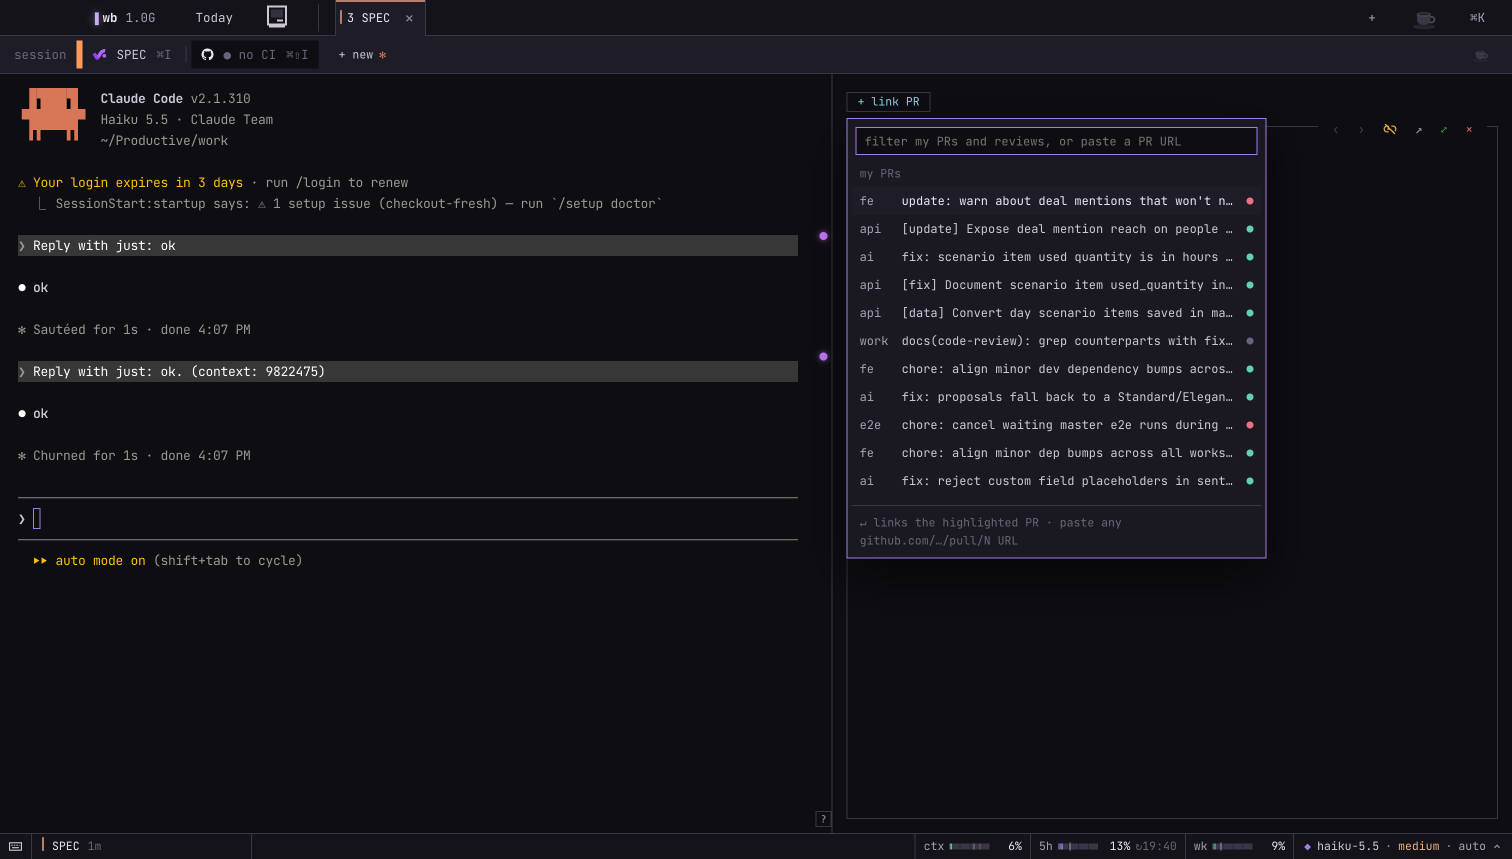
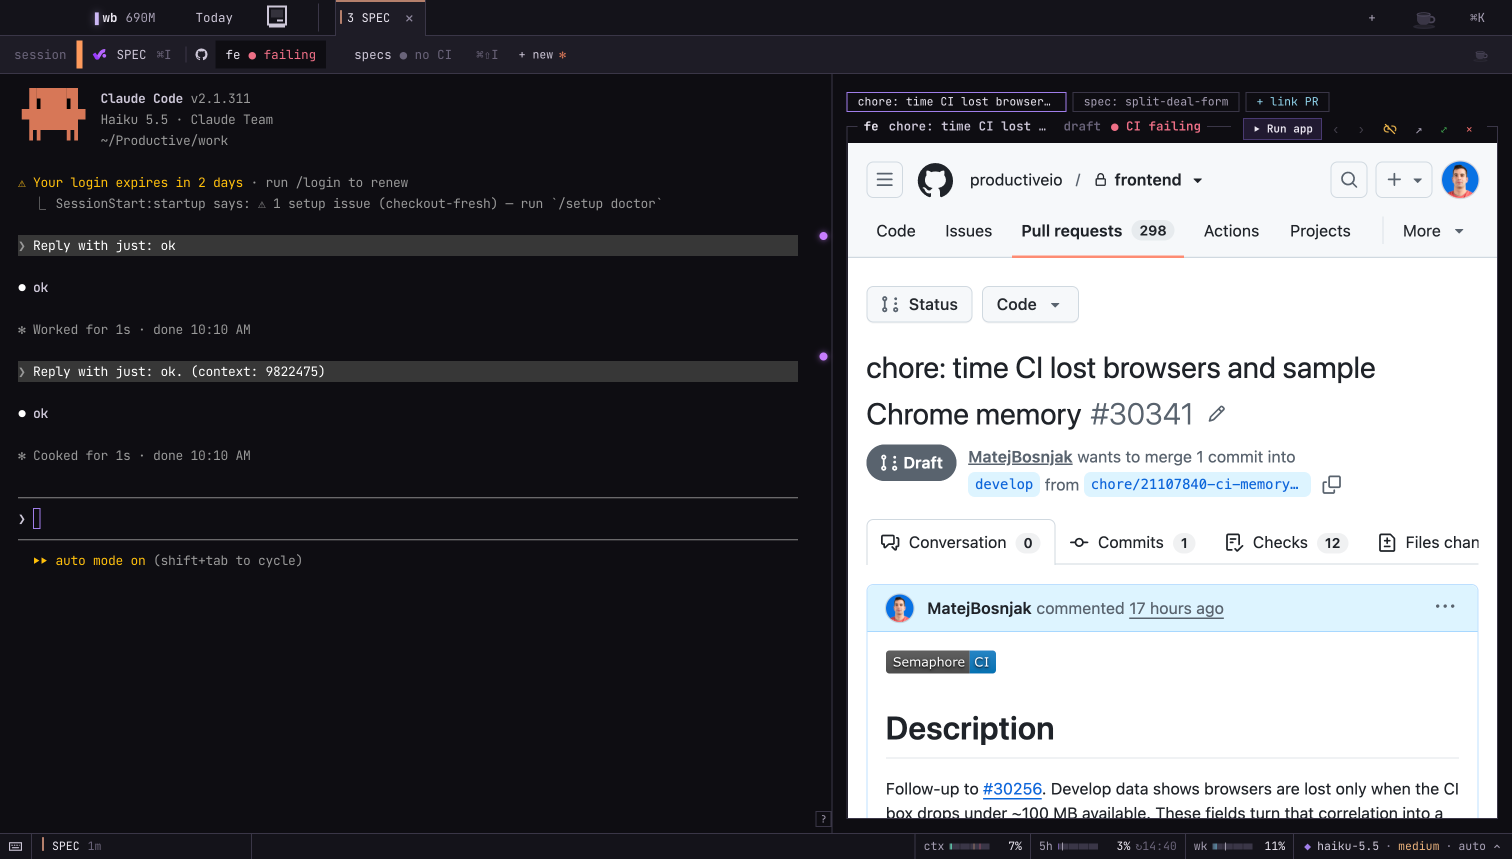
Session bar: every PR gets a segment, repo and CI in words, worst first (+N past 3); a segment opens the PR sidebar on that PR

diff --git a/src/renderer/src/components/TaskSide.tsx b/src/renderer/src/components/TaskSide.tsx
@@ -20,23 +20,39 @@ export const sessionTasks = (snapshot: TasksSnapshot | null, sessionId: string):
 export { sessionPrs, type SessionPr } from '@shared/links'
 
 const CI_LABEL: Record<Ci, [string, string]> = {
-  pass: ['CI passing', 'var(--ok)'],
-  fail: ['CI failing', 'var(--bad)'],
-  pending: ['CI running', 'var(--info)'],
+  pass: ['passing', 'var(--ok)'],
+  fail: ['failing', 'var(--bad)'],
+  pending: ['running', 'var(--info)'],
   none: ['no CI', 'var(--faint)'],
 }
+// The session bar lists PRs worst CI first, so trouble is never behind +N.
+const CI_RANK: Record<Ci, number> = { fail: 0, pending: 1, none: 2, pass: 3 }
+const SHOWN_PRS = 3
+// The PR a session bar segment asked for: a new GitHub view has no URL yet when the sidebar mounts.
+let wantedPr: string | null = null
+const prNumber = (url: string) => /\/pull\/(\d+)/.exec(url)?.[1] ?? ''
 
 /**
  * The session bar under the taskbar, belonging to the open session: its task (status rail, title, status) and its
  * PR (CI state), each opening its sidebar, and the branch at the right.
  */
 export function SessionBar({ session }: { session: Session }) {
-  const { tasks, git, runpr, side, toggle } = useStore(useShallow((s) => ({ tasks: s.tasks, git: s.git, runpr: s.runpr, side: s.sessionSides[session.id] ?? null, toggle: s.toggleSessionSide })))
+  const { tasks, git, runpr, side, toggle, setSessionSide } = useStore(useShallow((s) => ({ tasks: s.tasks, git: s.git, runpr: s.runpr, side: s.sessionSides[session.id] ?? null, toggle: s.toggleSessionSide, setSessionSide: s.setSessionSide })))
   const taskId = sessionTasks(tasks, session.id)[0]
   const task = taskId ? tasks?.tasks.find((t) => t.id === taskId) : undefined
   const prs = sessionPrs(session.id, tasks, git, runpr)
-  const pr = prs[0]
-  const ci = pr?.ci ? CI_LABEL[pr.ci] : null
+  const ranked = [...prs].sort((a, b) => (a.ci ? CI_RANK[a.ci] : 2.5) - (b.ci ? CI_RANK[b.ci] : 2.5))
+  const shown = prs.length > SHOWN_PRS ? ranked.slice(0, SHOWN_PRS) : ranked
+  const hidden = ranked.slice(shown.length)
+  const paneUrl = useStore((s) => s.pane?.prUrl)
+  const prOpen = (url: string) => side === 'pr' && paneUrl === url
+  // A PR's segment opens the sidebar on it, or closes the sidebar when it's the one shown.
+  const openPr = async (url: string) => {
+    if (prOpen(url)) return setSessionSide(null)
+    wantedPr = url
+    await window.workbench.pane.open(url)
+    setSessionSide('pr')
+  }
   return (
     <div className="session-bar">
       <span className="faint">session</span>
@@ -58,15 +74,39 @@ export function SessionBar({ session }: { session: Session }) {
         )}
         <span className="faint">⌘I</span>
       </button>
-      {pr && (
-        <button className={`sbar-btn pad${side === 'pr' ? ' on' : ''}`} aria-pressed={side === 'pr'} title={`${pr.title} (⌘⇧I)`} onClick={() => toggle('pr')}>
-          <GitHubIcon />
-          {ci && <span style={{ color: ci[1] }}>● {ci[0]}</span>}
-          {prs.length > 1 && <span className="faint">+{prs.length - 1}</span>}
+      {shown.length > 0 && (
+        <>
+          <span className="sbar-gh">
+            <GitHubIcon />
+          </span>
+          {shown.map((p) => {
+            const ci = p.ci ? CI_LABEL[p.ci] : null
+            return (
+              <button
+                key={p.url}
+                className={`sbar-btn seg${prOpen(p.url) ? ' on' : ''}`}
+                aria-pressed={prOpen(p.url)}
+                title={`${p.title} · ${p.label} #${prNumber(p.url)}${ci ? ` · CI ${ci[0]}` : ''}`}
+                onClick={() => void openPr(p.url)}
+              >
+                <span>{p.label}</span>
+                {ci && <span style={{ color: ci[1] }}>● {ci[0]}</span>}
+              </button>
+            )
+          })}
+          {hidden.length > 0 && (
+            <button
+              className={`sbar-btn seg${hidden.some((p) => prOpen(p.url)) ? ' on' : ''}`}
+              title={hidden.map((p) => p.title).join('\n')}
+              onClick={() => void openPr(hidden.find((p) => prOpen(p.url))?.url ?? hidden[0]!.url)}
+            >
+              <span className="faint">+{hidden.length}</span>
+            </button>
+          )}
           <span className="faint">⌘⇧I</span>
-        </button>
+        </>
       )}
-      {!pr && (
+      {!prs.length && (
         <LinkPrButton sessionId={session.id} className="sbar-btn pad">
           <GitHubIcon />
           <span className="muted">link PR…</span>
@@ -84,10 +124,11 @@ export function PrSide({ session }: { session: Session }) {
   const { tasks, git, runpr, pane, setSessionSide } = useStore(useShallow((s) => ({ tasks: s.tasks, git: s.git, runpr: s.runpr, pane: s.pane, setSessionSide: s.setSessionSide })))
   const prs = sessionPrs(session.id, tasks, git, runpr)
   const current = prs.find((p) => pane?.prUrl === p.url)
-  const first = prs[0]?.url
-  // Show one of this session's PRs; a page the pane already has for one of them stays as it is.
+  const first = prs.find((p) => p.url === wantedPr)?.url ?? prs[0]?.url
+  // Show one of this session's PRs (the one a segment asked for, else the first); a page the pane already has for one of them stays as it is.
   useEffect(() => {
-    if (first && !current) void window.workbench.pane.open(first)
+    if (current) wantedPr = null
+    else if (first) void window.workbench.pane.open(first)
   }, [session.id, first, !!current])
 
   return (

diff --git a/src/renderer/src/styles.css b/src/renderer/src/styles.css
@@ -1010,6 +1010,11 @@ button.run-chip { cursor: pointer; font: inherit; font-size: 12px; }
 .sbar-btn.pad, .sbar-btn:not(:has(.sbar-rail)) { padding-left: 10px; }
 .sbar-btn:hover, .session-bar .new-sess:hover { background: color-mix(in srgb, var(--text) 6%, transparent); }
 .sbar-btn.on { background: var(--bg); color: var(--text); }
+/* PRs: the GitHub mark once, then a segment per PR with no hairlines between them. */
+.sbar-gh { position: relative; display: flex; align-items: center; height: 28px; padding-left: 4px; margin-right: -6px; color: var(--text-2); }
+.sbar-gh::before { content: ''; position: absolute; left: -6px; top: 6px; bottom: 6px; width: 1px; background: var(--line-heavy); }
+.sbar-btn.seg { gap: 8px; padding: 0 10px; }
+.sbar-btn.seg + .sbar-btn.seg::before { content: none; }
 .sbar-rail { width: 6px; align-self: stretch; background: var(--st); flex-shrink: 0; }
 .sbar-title { min-width: 0; max-width: 380px; overflow: hidden; text-overflow: ellipsis; }
 .sbar-cup-wrap { position: relative; margin-left: auto; }

diff --git a/docs/SPEC.md b/docs/SPEC.md
@@ -91,6 +91,7 @@ Image: every screenshot below; the other themes in `theme-muthur.png`, `theme-br
 - Status-bar meters are compact: label, a short bar, the value in a fixed 4ch so nothing moves.
 - Buttons in one bar share its height (the session bar's are all 28px, `+ new ✻` included).
 - Bars don't box their buttons: the top bar and session bar buttons are text on the bar, raised on hover; boxes are kept for content (lists, sidebars, cards). A session-bar button's state is a left mark (6px for the task status, which shows no status name), never a dot.
+- A bar item with several things splits into segments, one per thing (the session bar's PRs): the icon once in front, no hairlines between segments, each raised on hover and lit on its own.
 - A filter row above a long scrolling list stays pinned at its top (the workstream's Show row). A resizable sidebar shows its edge as a 2px line on hover or while dragging.
 - Badges on a place button: a 15px round red ! at its top-right corner with a chrome ring; its hover card is a popover box under it. The aws chip takes the infra chip shape: ok dot green, expired tinted bad, logging in tinted accent with a pulsing dot.
 - Status in pane headers: a crashed service's pane header says `· crashed · exit n` in the bad colour. Switcher sections (Worktrees, Branches) use small uppercase headers; a branch row is shorter than a worktree row and badged `local` (raised) or `remote` (info).
@@ -255,7 +256,7 @@ Image: `docs/design/current/session.png`. Code: `Terminal.tsx`, `TermView.tsx`, 
 - **Terminal:** xterm.js with WebGL, 10,000 lines of scrollback, in the theme's colours and face (a theme switch restyles open terminals and refits them); main keeps replay history so a reopened view redraws (a pty's owner may rewrite output before it's kept, as Local strips its service shell's markers). Shift+⏎ sends a newline to claude; ⌘C copies a selection. Files dropped on a terminal are typed as their paths, shell-escaped and space-separated, as a paste (claude turns an image path into `[Image #n]`); a drop anywhere else in the window is ignored. URLs are links: productiveio PR links open the GitHub pane (⌘-click the browser) and show a hover card with repo, title, state, review decision, checks and ▶ Run app (open frontend PRs); other URLs open the browser.
 - **Session bar** (38px, raised, under the TopBar, only for Workbench sessions):
   - **Task button:** a 6px status rail (the status shows only as its colour; the name is in the tooltip), Productive logo, title, `⌘I` → task sidebar. No task: "link task…".
-  - **PR button:** GitHub logo, CI state, `+N`, `⌘⇧I` → PR sidebar (no title; it's in the tooltip and the sidebar); hidden with no PR. The session's PRs, in order: connected by hand, the frontend PR its branch is on, PRs of its tasks.
+  - **PRs:** the GitHub logo once, then a segment per PR: repo and CI in words (`fe ● failing`, `api ● passing`), worst first (failing, running, no CI, passing); title, number and CI in the tooltip. A segment opens the PR sidebar on that PR, lit while it's the one shown; clicking it again closes the sidebar. Over 3 PRs, the rest go behind `+N` (opens the first of them; titles in its tooltip). Then `⌘⇧I`, which toggles the sidebar. With no PR, **link PR…**. The session's PRs, in order: connected by hand, the frontend PR its branch is on, PRs of its tasks.
   - `+ new ✻` for the same task; at the right a small cup: this session's caffeinate hold (grey when none, coffee for Awake, the laptop badge for Lid closed). It opens a small popover for this session only: Off / Awake / Lid closed (`o` / `a` / `l`) and until; "Held by Auto while it works" when Auto holds it. Esc closes. The buttons have no boxes, a hairline between them; the open sidebar's button sits on the terminal's colour.
 - **External sessions** (started in another terminal, reported through the same hooks) are read-only tabs showing state and cwd, with **Take over**: waits for the terminal copy to exit, then resumes it here.
 
@@ -279,7 +280,7 @@ Image: `docs/design/current/session-task-side.png`. Code: `TaskSide.tsx` (TaskSi
 
 Image: `docs/design/current/session-pr-side.png`. Code: `TaskSide.tsx` (PrSide), `GitPane.tsx`.
 
-- 45% wide by default: the GitHub pane on the session's PR, with chips to pick between several, and a **+ link PR** chip at the end of the row. It opens a picker: filter my PRs and review requests (PRs already on the session are dimmed, marked linked), or paste any GitHub PR URL (`/files` and queries are stripped); ↑↓ ↵ esc. The pick is stored in `session_prs`. A session with no PR shows **link PR…** in the session bar, which opens the same picker. In the header's tools, the yellow unlink icon (after ‹ ›; the same icon as the task sidebar's) takes the shown PR off this session for good, however it got there (by hand, Run app, a linked task): it's kept as a dismissal (`suggest_dismissed`, key `pr:<url>`), so it isn't suggested again either; connecting it by hand later clears that. With no PR left the sidebar closes. Framed like the task sidebar: a box with the PR's repo, title, state and CI set into its top border and the tools (‹ › history, unlink, browser ⤢ ×, ▶ Run app for frontend) at its right; no Task ▾ / Session ▾ links, since the session bar already shows both. × closes the sidebar.
+- 45% wide by default: the GitHub pane on the session's PR (the one picked in the session bar, else the first), with chips to pick between several, and a **+ link PR** chip at the end of the row. It opens a picker: filter my PRs and review requests (PRs already on the session are dimmed, marked linked), or paste any GitHub PR URL (`/files` and queries are stripped); ↑↓ ↵ esc. The pick is stored in `session_prs`. A session with no PR shows **link PR…** in the session bar, which opens the same picker. In the header's tools, the yellow unlink icon (after ‹ ›; the same icon as the task sidebar's) takes the shown PR off this session for good, however it got there (by hand, Run app, a linked task): it's kept as a dismissal (`suggest_dismissed`, key `pr:<url>`), so it isn't suggested again either; connecting it by hand later clears that. With no PR left the sidebar closes. Framed like the task sidebar: a box with the PR's repo, title, state and CI set into its top border and the tools (‹ › history, unlink, browser ⤢ ×, ▶ Run app for frontend) at its right; no Task ▾ / Session ▾ links, since the session bar already shows both. × closes the sidebar.
 - **Per session:** each session remembers its own sidebar (task, PR or none; `ui:sessionSides`), closed until opened. The PR sidebar shows only while the session has a PR; ⌘⇧I does nothing without one.
 - **Width (both sidebars):** drag the left edge to resize (←/→ when it has focus); double-click resets to the default. Each sidebar remembers its width (`ui:sideWidths`), never narrower than 320px or leaving the terminal less than 360px. The GitHub pane waits behind a still while dragging.
 

diff --git a/docs/decisions.md b/docs/decisions.md
@@ -76,3 +76,4 @@ Personal local GUI for working with Claude Code instead of the terminal: today's
 - **Themes are a skin over one layout.** The cassette-futurism set (MU/TH/UR, Brown workstation, Ops console; Hi-Fi deck dropped) changes tokens, faces and decoration in CSS under `data-theme`; markup changes only where CSS can't do it: status codes on MU/TH/UR, seven-segment counters on Ops console. Dusk stays the default. MU/TH/UR keeps some status colour *(pure amber lost readability)*, and Brown's chrome is dark *(beige drew the eye away from the content)*.
 - **Dropped files are read in the preload.** Electron 32 removed `File.path`, so the renderer can't see where a dropped file lives; `webUtils.getPathForFile` (preload only) gives it. Paths go in through xterm's `paste` so claude gets bracketed paste and attaches images.
 - **Tab colour is the session, not its state.** With ten or more tabs, titles that start alike ("Redesign contact form…") and claude's default "Claude Code" made tabs indistinguishable, while the colour only said state. Each session now has a colour of its own (canvas: Session tabs boards; the colour bar option, at 2px), and state became a glyph (? ··· !). Lost on purpose: the violet tab wash that caught the eye from the side, violet on the tab and status-bar dot, the red failed bar; violet still marks waiting on the +N count, Needs you and Focus. Task status already spans the whole hue wheel, so session colours are kept apart by being muted, darker and a different shape (a bar on a tab, not a rail or dot), from each theme's own world; MU/TH/UR uses sigils so the phosphor stays one colour. Colour per task was rejected: it would bring back the problem inside a task.
+- **The session bar lists every PR, worst CI first.** One button with the first PR's CI and `+N` hid a failing second PR. Each PR gets a segment with its repo and CI in words (the number is in the tooltip); past 3 the rest go behind `+N`, but sorting puts any failure in view. A dot-per-PR summary was rejected: it says something fails, not which.

diff --git a/docs/design/explore/README.md b/docs/design/explore/README.md
@@ -30,5 +30,6 @@ Each file is a self-contained HTML mock: the markup sits inside `<x-dc>`, and th
 | `SessionTabsColor.dc.html` | Chosen: **1 · colour bar**, built at 2px; chip and tinted tabs rejected | `session.png`, `theme-*-session.png` |
 | `SessionTabsThemes.dc.html` | Chosen: per-theme palettes and MU/TH/UR sigils; the number-in-a-tile shape was not built (the bar was picked) | `theme-*-session.png` |
 | `SessionTabsLive.dc.html` | Reference: now vs new, animated, with what we lose and gain | — |
+| `SessionBarPrs.dc.html` | Chosen: **B · repo + CI word, worst first**; a segment per PR, numbers in the tooltip | `session.png`, `session-pr-side.png` |
 
 When a new exploration is picked: mark its row here (Chosen: X), build it, then `pnpm snap` and update `docs/SPEC.md` in the same commit.
